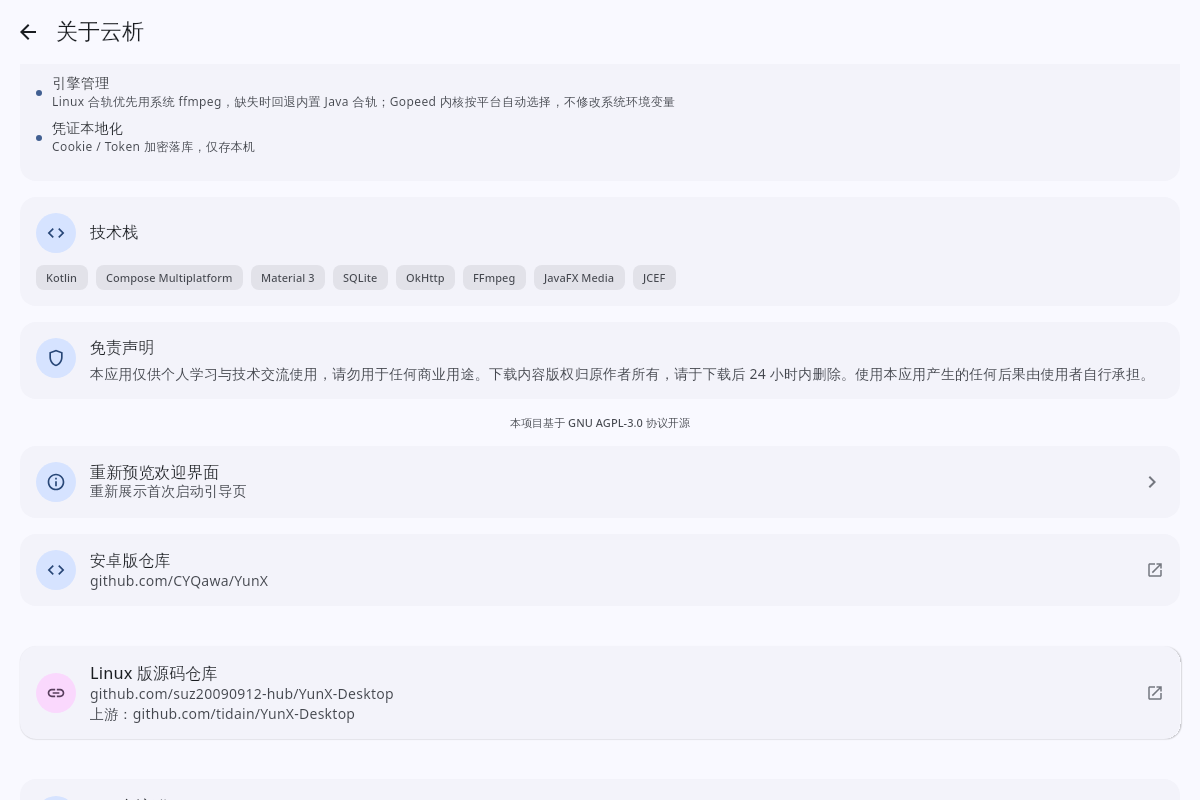
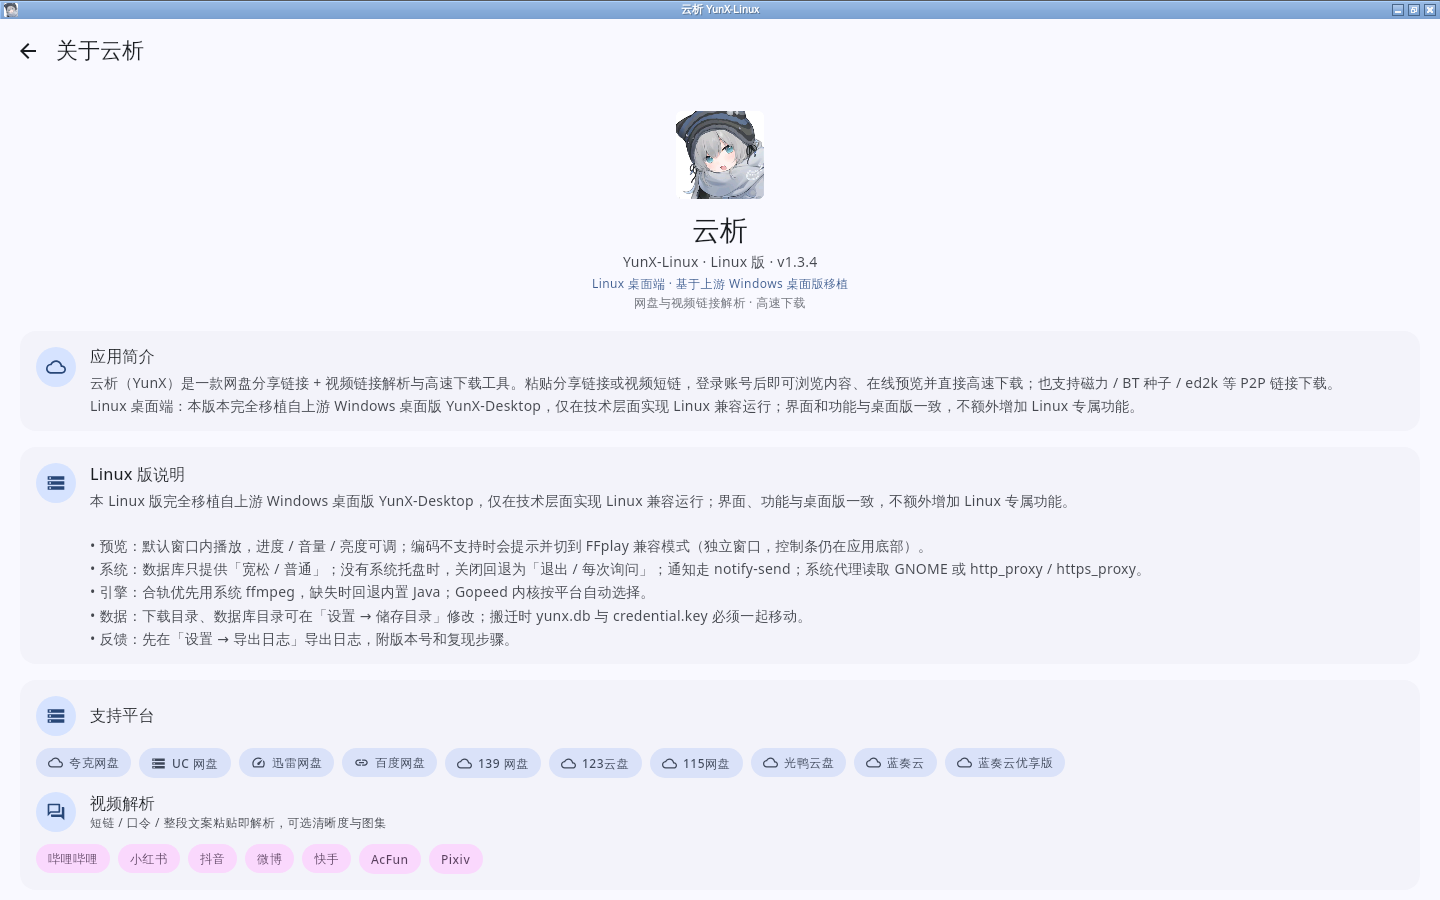
feat(linux): rename project to YunX-Linux and replace Windows screenshots
- 仓库、README、应用窗口与打包标识统一为 YunX-Linux
- Linux 可执行文件与桌面入口改为 YunX-Linux，保留 yunx-desktop 包名兼容
- 关于页、首次引导页、支持页与更新检查切换到新仓库地址
- docs/images 旧 Windows 截图全部替换为 1440x900 Linux 实机截图
- 新增 Linux 设置页与网盘页截图，README 截图区同步更新

diff --git a/desktop/src/main/kotlin/com/yunx/app/ui/screens/AboutScreen.kt b/desktop/src/main/kotlin/com/yunx/app/ui/screens/AboutScreen.kt
@@ -110,7 +110,7 @@ fun AboutScreen(
                 description = "云析（YunX）是一款网盘分享链接 + 视频链接解析与高速下载工具。" +
                     "粘贴分享链接或视频短链，登录账号后即可浏览内容、在线预览并直接高速下载；" +
                     "也支持磁力 / BT 种子 / ed2k 等 P2P 链接下载。\n" +
-                    "Linux 桌面端：本版本完全移植自 YunX-Desktop 桌面版（Windows），仅在技术层面实现 Linux 兼容运行；" +
+                    "Linux 桌面端：本版本完全移植自上游 Windows 桌面版 YunX-Desktop，仅在技术层面实现 Linux 兼容运行；" +
                     "界面和功能与桌面版一致，不额外增加 Linux 专属功能。"
             )
             
@@ -186,7 +186,7 @@ private fun AppHeader(versionName: String) {
         Spacer(modifier = Modifier.height(4.dp))
         Row(verticalAlignment = Alignment.CenterVertically) {
             Text(
-                text = "YunX-Desktop · Linux 版 · v$versionName",
+                text = "YunX-Linux · Linux 版 · v$versionName",
                 style = MaterialTheme.typography.bodyMedium,
                 color = MaterialTheme.colorScheme.onSurfaceVariant
             )
@@ -209,7 +209,7 @@ private fun AppHeader(versionName: String) {
         }
         Spacer(modifier = Modifier.height(4.dp))
         Text(
-            text = "Linux 桌面端 · 完全移植自 Windows 桌面版",
+            text = "Linux 桌面端 · 基于上游 Windows 桌面版移植",
             style = MaterialTheme.typography.bodySmall,
             color = MaterialTheme.colorScheme.primary
         )
@@ -262,7 +262,7 @@ private fun LinuxPortCard() {
                 )
                 Spacer(modifier = Modifier.height(6.dp))
                 Text(
-                    text = "本 Linux 版完全移植自 YunX-Desktop 桌面版（Windows），仅在技术层面实现 Linux 兼容运行；" +
+                    text = "本 Linux 版完全移植自上游 Windows 桌面版 YunX-Desktop，仅在技术层面实现 Linux 兼容运行；" +
                         "界面、功能与桌面版一致，不额外增加 Linux 专属功能。\n\n" +
                         "• 预览：默认窗口内播放，进度 / 音量 / 亮度可调；编码不支持时会提示并切到 FFplay 兼容模式" +
                         "（独立窗口，控制条仍在应用底部）。\n" +
@@ -638,7 +638,7 @@ private fun GitHubCard() {
 private fun DesktopRepoCard() {
     Card(
         onClick = {
-            DesktopActions.openUrl("https://github.com/suz20090912-hub/YunX-Desktop")
+            DesktopActions.openUrl("https://github.com/suz20090912-hub/YunX-Linux")
         },
         modifier = Modifier.fillMaxWidth(),
         shape = MaterialTheme.shapes.large,
@@ -674,7 +674,7 @@ private fun DesktopRepoCard() {
                     fontWeight = FontWeight.Medium
                 )
                 Text(
-                    text = "github.com/suz20090912-hub/YunX-Desktop\n上游：github.com/tidain/YunX-Desktop",
+                    text = "github.com/suz20090912-hub/YunX-Linux\n上游：github.com/tidain/YunX-Desktop",
                     style = MaterialTheme.typography.bodyMedium,
                     color = MaterialTheme.colorScheme.onSurfaceVariant
                 )

diff --git a/desktop/src/main/kotlin/com/yunx/app/ui/screens/SupportScreen.kt b/desktop/src/main/kotlin/com/yunx/app/ui/screens/SupportScreen.kt
@@ -169,7 +169,7 @@ fun SupportScreen(
                             color = MaterialTheme.colorScheme.onTertiaryContainer
                         )
                         Text(
-                            text = "本项目由于完全移植于 desktop 版，故不设置赞助渠道。" +
+                            text = "本项目完全移植自上游 Windows 桌面版 YunX-Desktop，故不设置赞助渠道。" +
                                 "如有想要赞助的想法，请赞助下面两位上游作者。",
                             style = MaterialTheme.typography.bodyMedium,
                             color = MaterialTheme.colorScheme.onTertiaryContainer,
@@ -202,7 +202,7 @@ fun SupportScreen(
                         )
                         Spacer(modifier = Modifier.width(6.dp))
                         Text(
-                            text = if (isLinuxOs) "微信扫码赞助（安卓版 / 桌面端作者）" else "微信扫码捐赠",
+                            text = if (isLinuxOs) "微信扫码赞助（安卓版 / Windows 桌面版作者）" else "微信扫码捐赠",
                             style = MaterialTheme.typography.titleMedium,
                             fontWeight = FontWeight.Medium
                         )
@@ -249,14 +249,14 @@ fun SupportScreen(
                             ) {
                                 androidx.compose.foundation.Image(
                                     painter = painterResource("sponsor_tidain_weixin.png"),
-                                    contentDescription = "桌面端赞赏码（点击放大）",
+                                    contentDescription = "Windows 桌面版赞赏码（点击放大）",
                                     modifier = Modifier.fillMaxSize(),
                                     contentScale = ContentScale.Fit
                                 )
                             }
                             Spacer(modifier = Modifier.height(6.dp))
                             Text(
-                                text = "桌面端 (tidain)",
+                                text = "Windows 桌面版 (tidain)",
                                 style = MaterialTheme.typography.labelSmall,
                                 color = MaterialTheme.colorScheme.onSurfaceVariant
                             )
@@ -318,7 +318,7 @@ fun SupportScreen(
             if (isLinuxOs) {
                 OutlinedButton(
                     onClick = {
-                        DesktopActions.openUrl("https://github.com/suz20090912-hub/YunX-Desktop")
+                        DesktopActions.openUrl("https://github.com/suz20090912-hub/YunX-Linux")
                         SnackbarController.show("已打开 Linux 版仓库")
                     },
                     modifier = Modifier

diff --git a/desktop/src/main/kotlin/com/yunx/app/ui/screens/OnboardingScreen.kt b/desktop/src/main/kotlin/com/yunx/app/ui/screens/OnboardingScreen.kt
@@ -296,7 +296,7 @@ private fun WelcomePage() {
         )
         Spacer(modifier = Modifier.height(6.dp))
         Text(
-            text = "YunX-Desktop · Linux 版 · v$APP_VERSION",
+            text = "YunX-Linux · Linux 版 · v$APP_VERSION",
             style = MaterialTheme.typography.bodyMedium,
             color = MaterialTheme.colorScheme.onSurfaceVariant
         )
@@ -360,7 +360,7 @@ private fun FactChip(text: String) {
 private fun GitHubCard() {
     Card(
         onClick = {
-            DesktopActions.openUrl("https://github.com/suz20090912-hub/YunX-Desktop")
+            DesktopActions.openUrl("https://github.com/suz20090912-hub/YunX-Linux")
         },
         modifier = Modifier.fillMaxWidth(),
         shape = MaterialTheme.shapes.large,
@@ -395,7 +395,7 @@ private fun GitHubCard() {
                     color = MaterialTheme.colorScheme.onSurface
                 )
                 Text(
-                    text = "github.com/suz20090912-hub/YunX-Desktop",
+                    text = "github.com/suz20090912-hub/YunX-Linux",
                     style = MaterialTheme.typography.bodySmall,
                     color = MaterialTheme.colorScheme.onSurfaceVariant
                 )
@@ -653,7 +653,7 @@ private fun TermsPage() {
             icon = Icons.Outlined.Code,
             title = "Linux 版说明",
             paragraphs = listOf(
-                "本 Linux 版完全移植自 YunX-Desktop 桌面版（Windows），仅在技术层面实现 Linux 兼容运行；界面、功能一致，不额外增加功能。",
+                "本 Linux 版完全移植自上游 Windows 桌面版 YunX-Desktop，仅在技术层面实现 Linux 兼容运行；界面、功能一致，不额外增加功能。",
                 "系统差异：数据库只有「宽松 / 普通」；无托盘时关闭回退为退出 / 每次询问；通知走 notify-send；代理读 GNOME 或环境变量；合轨优先系统 ffmpeg。",
                 "预览默认窗口内播放；编码不支持时会提示并切到 FFplay 兼容模式（独立窗口，控制条仍在应用底部）。"
             )
@@ -664,7 +664,7 @@ private fun TermsPage() {
             icon = Icons.Outlined.Code,
             title = "开源协议",
             paragraphs = listOf(
-                "本项目基于 GNU AGPL-3.0 协议开源，Linux 版源码公开于 github.com/suz20090912-hub/YunX-Desktop；上游 Windows 桌面版为 github.com/tidain/YunX-Desktop。"
+                "本项目基于 GNU AGPL-3.0 协议开源，Linux 版源码公开于 github.com/suz20090912-hub/YunX-Linux；上游 Windows 桌面版为 github.com/tidain/YunX-Desktop。"
             )
         )
 

diff --git a/desktop/src/main/kotlin/com/yunx/app/util/TrayManager.kt b/desktop/src/main/kotlin/com/yunx/app/util/TrayManager.kt
@@ -54,7 +54,7 @@ object TrayManager {
         if (!isSupported) return
         if (trayIcon != null) uninstall()
 
-        val icon = TrayIcon(image.getScaledInstance(16, 16, Image.SCALE_SMOOTH), "云析 YunX-Desktop").apply {
+        val icon = TrayIcon(image.getScaledInstance(16, 16, Image.SCALE_SMOOTH), "云析 YunX-Linux").apply {
             isImageAutoSize = true
             // 空 PopupMenu：Windows 必须设才能收到右键事件；Linux 设空菜单会弹出空白菜单，反而不弹回调
             if (isWindows) popupMenu = PopupMenu()

diff --git a/desktop/src/main/kotlin/com/yunx/app/data/update/UpdateChecker.kt b/desktop/src/main/kotlin/com/yunx/app/data/update/UpdateChecker.kt
@@ -18,7 +18,7 @@ import org.json.JSONObject
 object UpdateChecker {
 
     private val isLinuxHost = System.getProperty("os.name").orEmpty().lowercase().contains("linux")
-    private val updateRepo = if (isLinuxHost) "suz20090912-hub/YunX-Desktop" else "tidain/YunX-Desktop"
+    private val updateRepo = if (isLinuxHost) "suz20090912-hub/YunX-Linux" else "tidain/YunX-Desktop"
 
     private val RELEASES_LATEST_URL =
         "https://api.github.com/repos/$updateRepo/releases/latest"

diff --git a/desktop/src/main/kotlin/com/yunx/app/util/DesktopNotifier.kt b/desktop/src/main/kotlin/com/yunx/app/util/DesktopNotifier.kt
@@ -26,7 +26,7 @@ object DesktopNotifier {
         }
         runCatching {
             val p = ProcessBuilder(
-                bin, "-a", "云析 YunX-Desktop", "-t", "5000", title, message
+                bin, "-a", "云析 YunX-Linux", "-t", "5000", title, message
             ).redirectErrorStream(true).start()
             if (!p.waitFor(3, TimeUnit.SECONDS)) {
                 p.destroyForcibly()

diff --git a/desktop/src/main/kotlin/com/yunx/app/util/SingleInstance.kt b/desktop/src/main/kotlin/com/yunx/app/util/SingleInstance.kt
@@ -24,7 +24,7 @@ object SingleInstance {
     private const val TAG = "YunX-SingleInstance"
 
     /** 主窗口标题：与 Main.kt 里 Compose `Window(title = ...)` 保持一致 */
-    private const val WINDOW_TITLE = "云析 YunX-Desktop"
+    private const val WINDOW_TITLE = "云析 YunX-Linux"
 
     private var holder: RandomAccessFile? = null
     private var lock: FileLock? = null

diff --git a/desktop/src/main/kotlin/com/yunx/app/Main.kt b/desktop/src/main/kotlin/com/yunx/app/Main.kt
@@ -249,7 +249,7 @@ fun main(args: Array<String>) {
             onCloseRequest = {
                 if (!suppressCloseRequest) closeRequested = true
             },
-            title = "云析 YunX-Desktop",
+            title = "云析 YunX-Linux",
             state = windowState,
             icon = remember { loadWindowIcon() },
         ) {

diff --git a/docs/LINUX-PORT-FIXES.md b/docs/LINUX-PORT-FIXES.md
@@ -87,12 +87,12 @@
 
 - 关于页、首次引导页统一改为 Linux 桌面端口径，明确标注「完全移植自 YunX-Desktop 桌面版（Windows），仅在技术层面实现 Linux 兼容运行，界面/功能一致，不额外增加 Linux 专属功能」。
 - 关于页新增「Linux 版说明」卡片：预览默认窗口内播放、编码不支持时切 FFplay 兼容模式（独立窗口）、数据库仅宽松/普通、无托盘时关闭回退、通知走 notify-send、代理读 GNOME/环境变量、合轨优先系统 ffmpeg、数据目录与日志反馈。
-- 功能特性里的「在线预览 / 引擎管理」改成 Linux 实际行为；仓库卡改为「Linux 版源码仓库」，链接到 `suz20090912-hub/YunX-Desktop`，并注明上游为 Windows 桌面版。
+- 功能特性里的「在线预览 / 引擎管理」改成 Linux 实际行为；仓库卡改为「Linux 版源码仓库」，链接到 `suz20090912-hub/YunX-Linux`，并注明上游为 Windows 桌面版。
 - 引导页欢迎页、功能特性页、协议页都补了同一段移植说明，避免用户误以为 Linux 版有额外功能。
 
 ### Linux 仓库地址与赞助页说明（2026-11-24）
 
-- 关于页、首次引导页的仓库入口改为 Linux 版仓库 `https://github.com/suz20090912-hub/YunX-Desktop`，同时保留上游 Windows 桌面版地址。
+- 关于页、首次引导页的仓库入口改为 Linux 版仓库 `https://github.com/suz20090912-hub/YunX-Linux`，同时保留上游 Windows 桌面版地址。
 - 支持开发页新增 Linux 声明：本项目由于完全移植于 desktop 版，故不设置赞助渠道；如有想要赞助的想法，请赞助安卓版作者（CYQawa）与桌面版作者（tidain）。
 - 支持开发页新增「Linux 版仓库」入口；设置页的「支持开发」副标题在 Linux 上改为「Linux 版不设赞助渠道，可赞助上游作者」。
 - README 新增「赞助说明」与 Linux 版仓库地址；`docs/BUILD-LINUX.md` 补齐 Linux 构建与依赖说明；新增 GitHub Actions Linux 构建工作流。

diff --git a/docs/VM-ACCEPTANCE.md b/docs/VM-ACCEPTANCE.md
@@ -14,7 +14,7 @@ sudo dpkg -i desktop/build/compose/binaries/main/deb/yunx-desktop_1.3.4-1_amd64.
 结果：
 
 - `dpkg -s yunx-desktop`：`Status: install ok installed`、`Version: 1.3.4-1`。
-- `/usr/bin/yunx-desktop -> ../../opt/yunx-desktop/bin/YunX-Desktop` 已创建。
+- `/usr/bin/yunx-desktop -> ../../opt/yunx-desktop/bin/YunX-Linux` 已创建。
 - 无桌面菜单环境会打印 `xdg-desktop-menu: No writable system menu directory found.`，
   `postinst` 已用 `|| true` 兜底，不再让 apt 安装失败。
 
@@ -32,7 +32,7 @@ Recommends: ffmpeg, gstreamer1.0-plugins-base, gstreamer1.0-plugins-good,
 ## 启动
 
 ```bash
-DISPLAY=:100 dbus-run-session -- /opt/yunx-desktop/bin/YunX-Desktop
+DISPLAY=:100 dbus-run-session -- /opt/yunx-desktop/bin/YunX-Linux
 ```
 
 启动日志关键行：
@@ -54,10 +54,10 @@ I/YunX-JCEF: JCEF initialized (attempt 1)
 ## 文案与入口检查
 
 - 支持开发页显示：「本项目由于完全移植于 desktop 版，故不设置赞助渠道。如有想要赞助的想法，请赞助下面两位上游作者。」
-- 支持开发页提供「Linux 版仓库」按钮，指向 `https://github.com/suz20090912-hub/YunX-Desktop`。
+- 支持开发页提供「Linux 版仓库」按钮，指向 `https://github.com/suz20090912-hub/YunX-Linux`。
 - 关于页的「Linux 版源码仓库」卡同时显示 Linux 仓库与上游 `tidain/YunX-Desktop`。
 - 设置页「支持开发」副标题为「Linux 版不设赞助渠道，可赞助上游作者」。
-- Linux 更新检查查询 `suz20090912-hub/YunX-Desktop` 的 Releases，只匹配 Linux 资产。
+- Linux 更新检查查询 `suz20090912-hub/YunX-Linux` 的 Releases，只匹配 Linux 资产。
 - `/usr/bin/yunx-desktop` 可直接启动应用。
 
 ## 待办

diff --git a/CHANGELOG.md b/CHANGELOG.md
@@ -3,7 +3,17 @@
 本文件只记录 Linux 版相对上游 Windows 桌面版的版本变化；完整移植细节见
 [Linux 移植记录](docs/LINUX-PORT-FIXES.md)。
 
-## v1.3.4-linux.1（2026-11-24，待发布）
+## v1.3.4-linux.2（2026-11-24，待发布）
+
+### 变更
+
+- 项目与仓库更名为 **YunX-Linux**，明确标注 Linux 版，避免被误认为 Windows 桌面版。
+- 应用窗口标题、托盘提示、打包元信息与 Linux 可执行文件统一改为 `云析 YunX-Linux` / `YunX-Linux`。
+- 关于页、首次引导页、支持开发页的 Linux 仓库地址同步为新仓库 `suz20090912-hub/YunX-Linux`。
+- 更新检查改为查询新仓库的 Releases，只匹配 Linux 安装包。
+- `docs/images/` 下旧 Windows 截图全部替换为 Linux 实机截图；README 增加设置页、网盘页截图。
+
+## v1.3.4-linux.1（2026-11-24，已发布）
 
 首个 Linux 桌面移植版本，基线为上游 `v1.3.4`。
 
